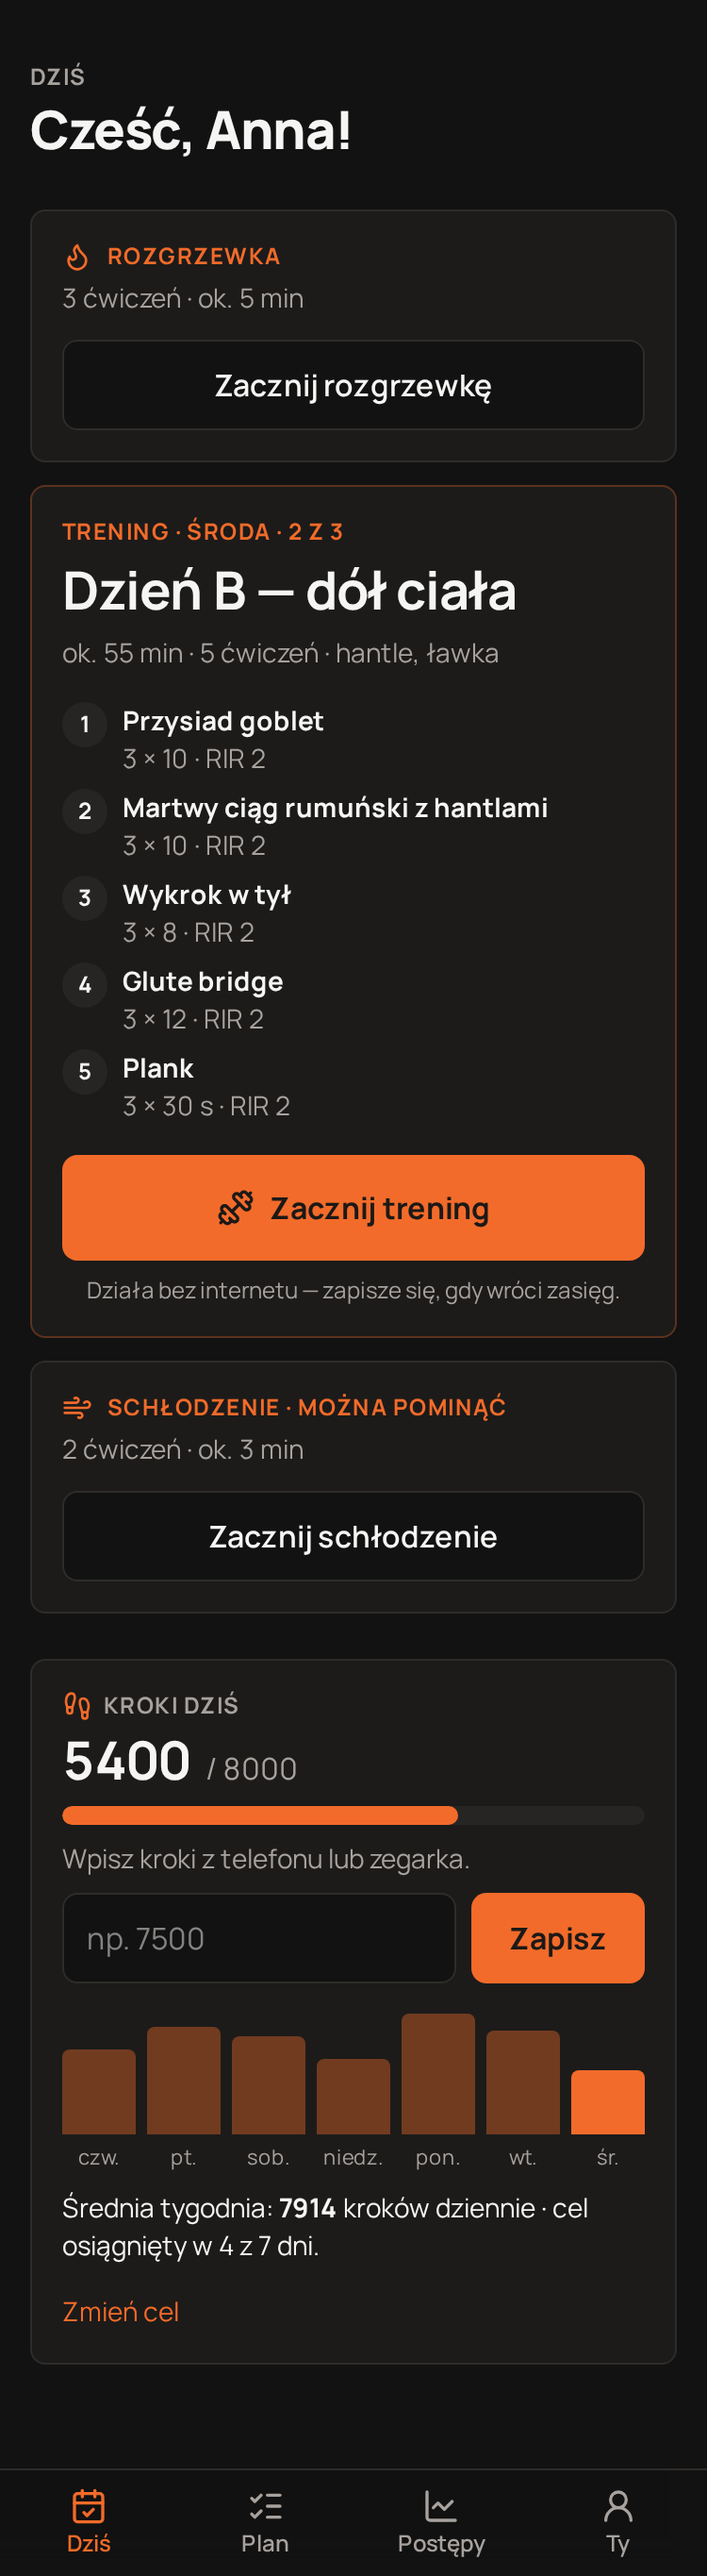
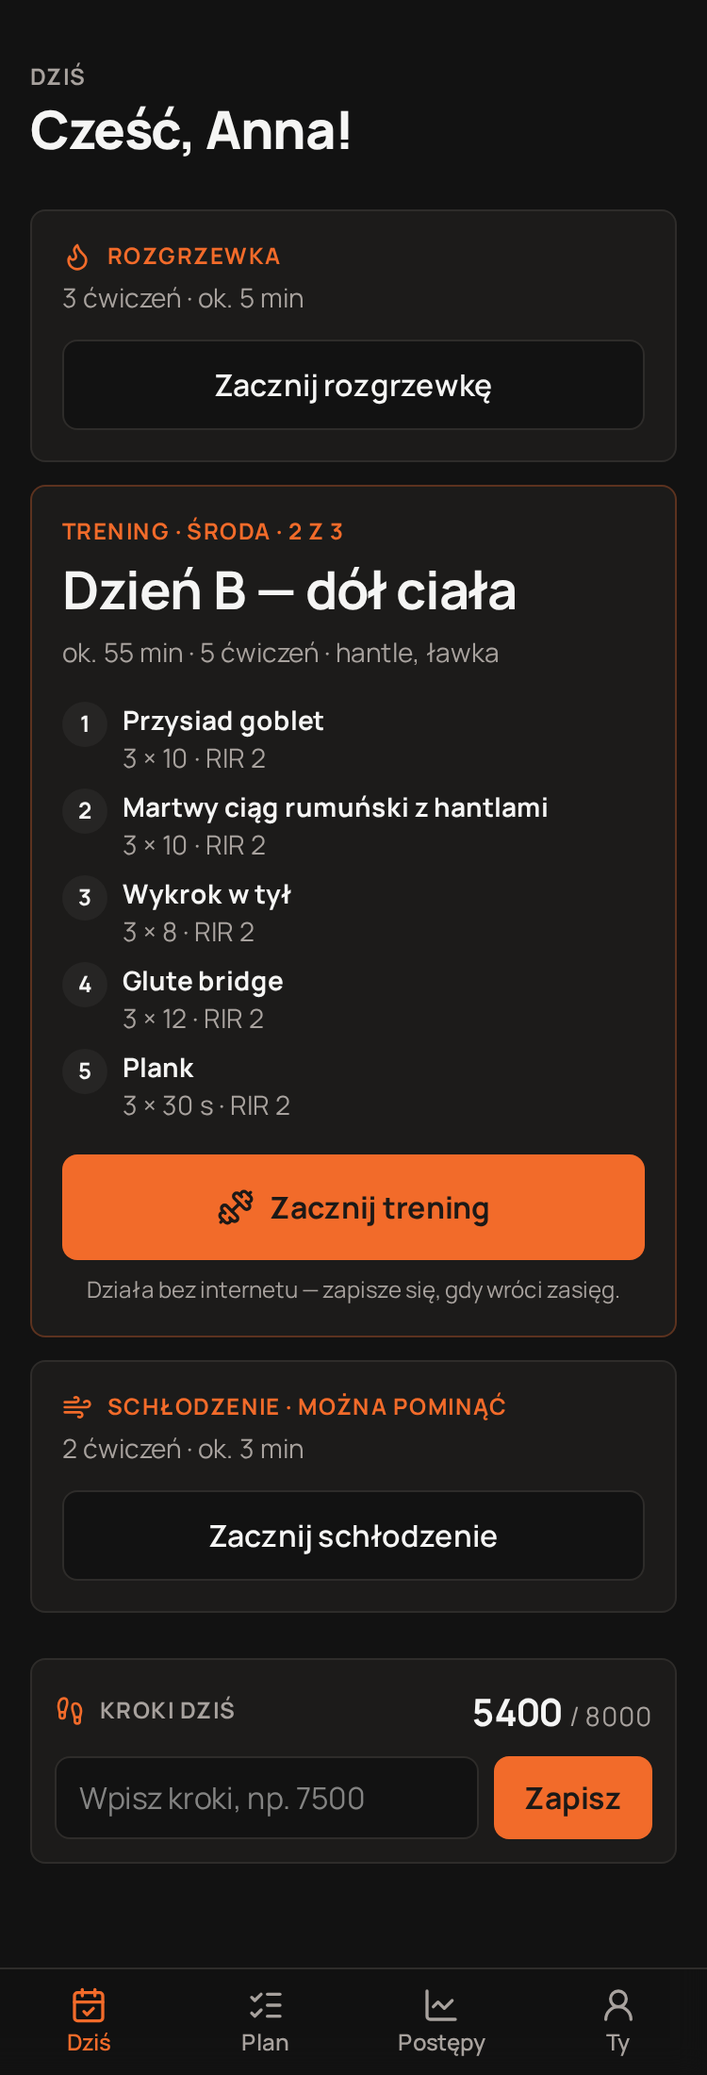
Ekrany Solo: finalne zrzuty (decyzja 58), plan sterownika Solo (decyzja 59), odpowiedzi właściciela 58–61

diff --git a/artifacts/client-landing/src/pages/solo-preview.tsx b/artifacts/client-landing/src/pages/solo-preview.tsx
@@ -24,7 +24,7 @@ const hash = (n: number) => { let x = (n + 1) * 2654435761 % 4294967296; x ^= x 
 const ACTIVE_DAYS = Array.from({ length: 330 }, (_, i) => i).filter((i) => !(i > 150 && i < 172) && hash(i) < 0.3).map((i) => shift(TODAY, -i));
 const ago = (n: number) => new Date(Date.now() - n * 86_400_000).toISOString();
 const ITEMS: AchievementItem[] = [
-  { id: 6, kind: "ladder_step", title: "Nowy szczebel: Pompki klasyczne", body: "Przeszedłeś na wyższy poziom tego ruchu.", earnedAt: ago(1), seen: false },
+  { id: 6, kind: "ladder_step", title: "Nowy szczebel: Pompki klasyczne", body: "Nowy poziom tego ruchu!", earnedAt: ago(1), seen: false },
   { id: 5, kind: "week_streak", title: "4 tygodnie z rzędu", body: "Trenujesz regularnie — tak trzymaj.", earnedAt: ago(3), seen: false },
   { id: 4, kind: "record", title: "Nowy rekord: Przysiad ze sztangą", body: "62,5 kg × 8 (o 2,5 kg więcej niż dotąd)", earnedAt: ago(4), seen: true },
   { id: 3, kind: "milestone", title: "10. trening", body: "Tak trzymaj — to naprawdę się sumuje.", earnedAt: ago(12), seen: true },

diff --git a/docs/SOLO-STEROWNIK.md b/docs/SOLO-STEROWNIK.md
@@ -1,0 +1,24 @@
+# Solo: „sterownik” generowania planu po stronie serwera — plan (decyzja 59)
+
+Stan: 28.10.2026. **Tylko plan, bez kodu.** Realizacja po przeglądzie katalogu (decyzje 52–53), bo Solo bierze wyłącznie ćwiczenia zweryfikowane i dziś miałoby najwięcej odmów.
+
+## Problem
+Generator planu jest dziś sterowany z kreatora trenera: panel woła kolejno rozkład objętości, a potem `POST …/generate-day` dla każdego dnia (pamięć tygodnia, typy dni). Osoba Solo nie ma trenera ani panelu, więc nikt tych wywołań nie zrobi. Reguły Solo (`services/solo.ts`: tylko zweryfikowane, skoki wg doświadczenia, wykluczenie ćwiczeń z bólem na 90 dni) są gotowe i wpięte w pulę; brakuje „kierowcy”.
+
+## Kroki
+1. **S1 — wydzielić logikę dnia z trasy** (`planDraftGenerateDay.ts`, ok. 1100 linii) do wywoływalnej usługi `generateDay(clientId, parametry)`: bez zmiany zachowania, trasa tylko ją woła. Testy bez zmian muszą przejść (2700+), symulacja 1000 profili musi dać identyczny wynik.
+2. **S2 — kierowca** `services/soloPlanDriver.ts`: poziom efektywny → liczba dni (z wywiadu, 2–5) → podział (`recommendSplitType`/`getDayTemplate`) → kolejne dni z pamięcią tygodnia, `alternativeIndex`, bilansem tygodnia → zapis planu jako aktywnego (jeden aktywny plan na osobę) → ewentualny drugi przebieg „od nowa” dopiero po zakończeniu planu.
+3. **S3 — wywiad Solo**: wywiad bez tokenu zaproszenia (istniejący formularz, zapis do `surveys` dla osoby Solo) i trasa `POST /api/solo/plan` za `SOLO_ENABLED`. W portalu ekran startu przełącza `interviewReady` na prawdę.
+4. **S4 — limity i bezpieczeństwo**: własny limit planów dla Solo (bez pakietów trenera; np. 1 plan na 4 tygodnie, do uzgodnienia), zgoda zdrowotna jak w wywiadzie (brak zgody = tryb ostrożny), komunikat przy odmowie w prostych słowach i z propozycją „połącz się z trenerem”.
+5. **S5 — odbiór**: symulacja ze stylem „solo” (reguły Solo) na 1000 profili: 0 naruszeń bezpieczeństwa; odsetek odmów dnia musi być akceptowalny dla właściciela (próg do ustalenia po przeglądzie katalogu).
+
+## Zależności i ryzyka
+- **Katalog**: Solo = tylko zweryfikowane. Dopóki ok. 80% ćwiczeń jest „do weryfikacji”, odmowy dominują. Dlatego najpierw przegląd (`docs/PRZEGLAD-KATALOGU.csv`).
+- **S1 to największa zmiana** (refaktor krytycznej trasy): robić osobno, z porównaniem przed/po.
+- Bez zmiany schematu bazy w S1–S2; S3–S4 mogą wymagać jednej kolumny/tabeli (limit planów) — wtedy osobna zgoda i backup.
+- Brak kosztów zewnętrznych (bez AI, bez płatnych usług).
+
+## Pytania do właściciela (z rekomendacją)
+1. Limit planów dla Solo: 1 na 4 tygodnie? Rekomendacja: tak.
+2. Co przy odmowie dnia: pokazać krótszy dzień (min. 3, jak pkt 51) czy zawsze proponować kontakt z trenerem? Rekomendacja: min. 3 + zachęta do połączenia z trenerem.
+3. Czy Solo może włączyć kalistenikę sam (styl bez trenera)? Rekomendacja: dopiero po przeglądzie katalogu kalistenicznego.

diff --git a/docs/DO-DECYZJI.md b/docs/DO-DECYZJI.md
@@ -129,7 +129,11 @@ Gałęzie z `main`: `feature/generator-priorytety` (0037), `feature/konta-link-k
 
 ## Ekrany Solo i „Postępy” (28.10.2026, gałąź `feature/solo-ekrany`; zrzuty: `docs/screens/solo/`)
 58. **Prototyp do oceny**: dolny pasek Dziś · Plan · Postępy · Ty, ekrany Postępy i Ty, start Solo. Za flagami (wyłączone). Wygląd i układ zatwierdzasz Ty — to nowa nawigacja.
+   **ODPOWIEDŹ WŁAŚCICIELA: kierunek zatwierdzony; poprawki wykonane na `feature/solo-ekrany`:** „Dziś” — kroki tylko jako mały wiersz z polem (wykres tylko w „Postępach”); „Ty” — jeden napis „Prowadzę podopiecznych”; linki w „Dokumentach” min. 44 px (zmierzone: 44 px); teksty bez płci (jak 56). Nowe zrzuty w `docs/screens/solo/`. Bez scalania.
 59. **Solo nie jest jeszcze domknięte**: brak serwerowego „sterownika” generowania planu dla osoby bez trenera (opisane w bloku 11), więc po starcie Solo ekran uczciwie mówi „wkrótce” zamiast prowadzić do wywiadu. Reszta (reguły Solo, filtry bezpieczeństwa) jest gotowa.
+   **ODPOWIEDŹ WŁAŚCICIELA: sterownik Solo PO przeglądzie katalogu; teraz tylko krótki plan.** Plan: `docs/SOLO-STEROWNIK.md`.
 60. **Przy włączonej fladze krótki „mignięcie” klasycznego widoku** zanim portal odczyta flagi (jedno zapytanie). Przy wyłączonych flagach nic się nie zmienia. Rekomendacja: zostawić do czasu zatwierdzenia wyglądu; potem flagi czytać razem z planem.
+   **ODPOWIEDŹ WŁAŚCICIELA: zgoda na rekomendację** (flagi czytać razem z planem po zatwierdzeniu wyglądu; do tego czasu bez zmian).
 61. **Drabinki kalisteniczne** (`feature/kalistenika`) dołączą do liczenia awansów po scaleniu obu gałęzi.
+   **ODPOWIEDŹ WŁAŚCICIELA: OK.**
    **ODPOWIEDŹ WŁAŚCICIELA: migracja 0056 przy scaleniu — zgoda (pg_dump przed).** Backup przed scaleniem zrobię przy scalaniu gałęzi; do tej pory migracja tylko w bazie testowej.

diff --git a/docs/POSTEP-GCP.md b/docs/POSTEP-GCP.md
@@ -298,3 +298,7 @@
 ## 28.10.2026 — decyzje 56–57: osiągnięcia, teksty bez płci (gałąź `feature/osiagniecia`, NIE scalona) — GOTOWE
 - Pięć rekomendacji zatwierdzonych (już tak wdrożone). Teksty portalu bez płci: 8 zmian (wywiad, aktywacja, osiągnięcie), lista w `docs/TEKSTY-PLEC.md`; odpowiedź o skokach neutralna, stare zapisy działają; strażnik `genderNeutralTexts.test.ts` + test tekstów osiągnięć.
 - Migracja 0056 zatwierdzona do scalenia (pg_dump przy scalaniu).
+
+## 28.10.2026 — decyzje 58–61: ekrany (zrzuty) i plan sterownika Solo (gałąź `feature/solo-ekrany`, NIE scalona) — GOTOWE
+- Ostateczne zrzuty `docs/screens/solo/` (375 px, jasny i ciemny): „Dziś” z małym wierszem kroków, „Ty” z jednym napisem i linkami 44 px (skrypt mierzy), teksty bez płci. Wciągnięte `feature/osiagniecia` (decyzje 56–57).
+- 59: `docs/SOLO-STEROWNIK.md` — plan S1–S5 (refaktor dnia → kierowca → wywiad Solo → limity → odbiór), realizacja po przeglądzie katalogu.
